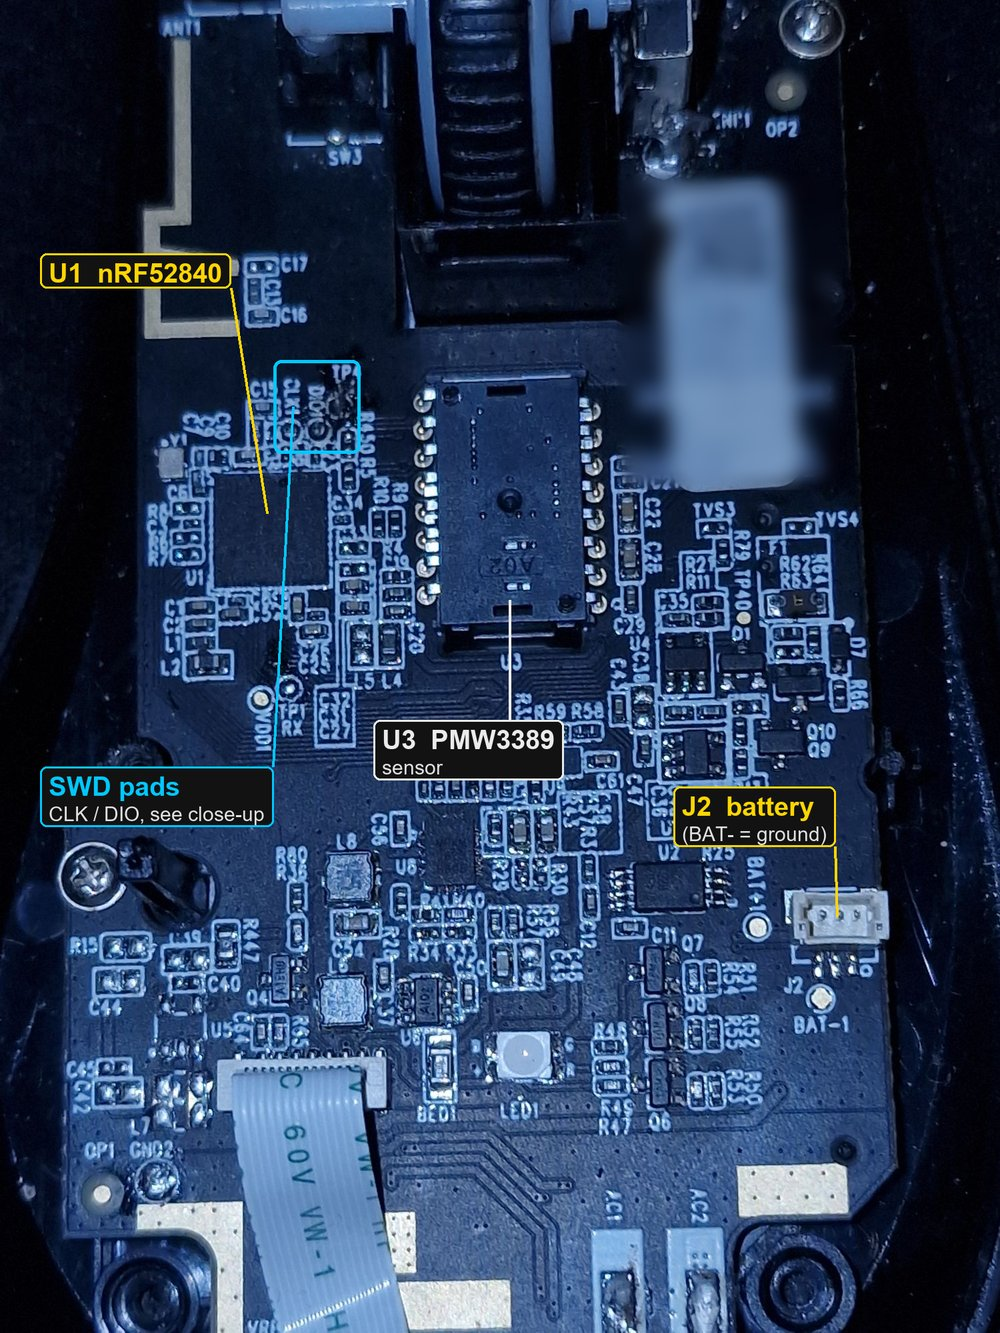
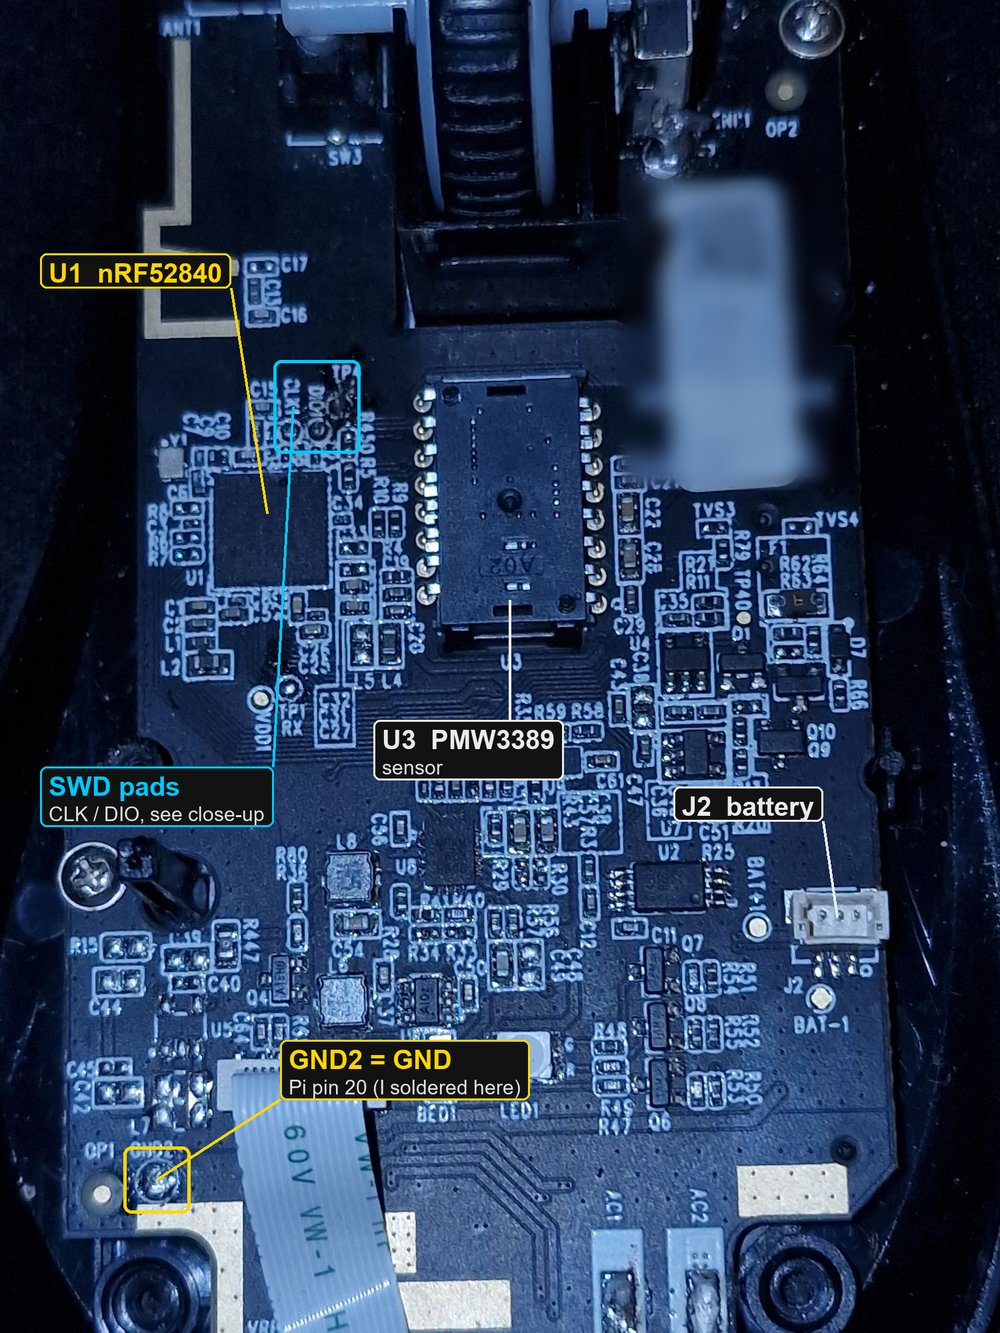
docs: mark the GND2 pad on the board photo

diff --git a/docs/hardware.md b/docs/hardware.md
@@ -52,7 +52,8 @@ Pi pin 20 (GND) ---------------- mouse GND
     PCB antenna. They take the programmer wires.
   - **VDD1**, left of U1, is the 2.1 V MCU supply. It is only for measuring; connect nothing.
   - **TP1 "RX"** and **TP4 "TX"** are the UART (not needed; the stock firmware does not use it).
-  - GND: any ground point, e.g. the battery negative (BAT−) or a connector shield.
+  - **GND:** the **GND2** pad at the bottom left of the board (that is where I soldered it);
+    any other ground works too, e.g. BAT−.
 
 ![Mouse main board](img/mouse_board.jpg)
 
